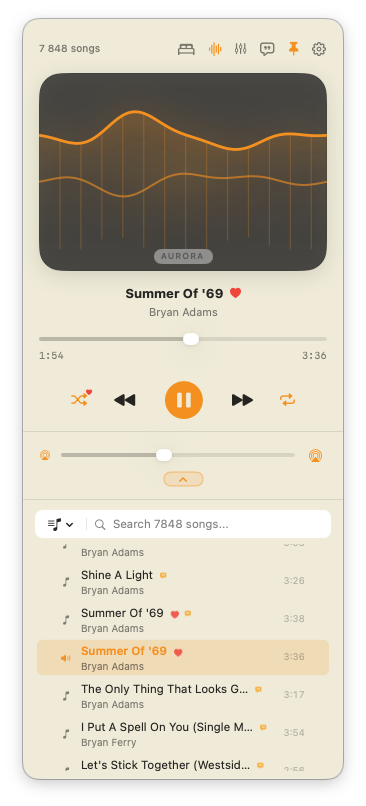
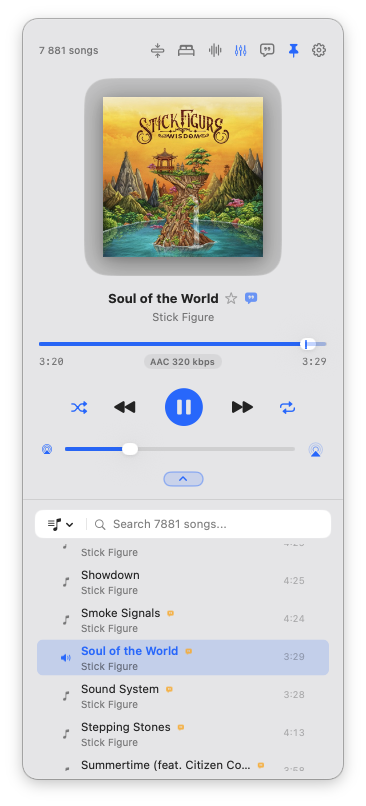
feat: replace screenshots with new 12 high-res captures

diff --git a/index.html b/index.html
@@ -719,172 +719,172 @@
         <button class="filter-btn" onclick="filterGallery('settings')">Settings</button>
       </div>
 
-      <div class="gallery-grid">
-        <!-- 1. Player Dark -->
-        <div class="gallery-item" data-category="player" onclick="openLightbox('screenshots/player-dark.png', 'Player — Dark Mode (Aurora Visualizer)')">
+            <div class="gallery-grid">
+        <!-- 1. Player Art + Library (Light) -->
+        <div class="gallery-item" data-category="library" onclick="openLightbox('screenshots/1-player-art-library-light.png', 'Album Art & Library Drawer (Light Mode)')">
           <div class="gallery-img-wrap">
-            <img src="screenshots/player-dark.png" alt="Echo player in Dark Mode with Aurora visualizer" class="gallery-img">
+            <img src="screenshots/1-player-art-library-light.png" alt="Echo player with album art and library drawer" class="gallery-img">
           </div>
           <div class="gallery-caption">
             <div class="gallery-item-title">
-              <span>Main Player (Dark)</span>
-              <span class="gallery-tag">Dark Mode</span>
-            </div>
-            <p class="gallery-item-desc">Album art, time scrub, playback controls, and real-time Aurora sound wave visualizer.</p>
-          </div>
-        </div>
-
-        <!-- 2. Player Light -->
-        <div class="gallery-item" data-category="player" onclick="openLightbox('screenshots/player-light.png', 'Player — Light Mode (Teal Accent)')">
-          <div class="gallery-img-wrap">
-            <img src="screenshots/player-light.png" alt="Echo player in Light Mode with Teal accent" class="gallery-img">
-          </div>
-          <div class="gallery-caption">
-            <div class="gallery-item-title">
-              <span>Main Player (Light)</span>
+              <span>Art & Library Drawer</span>
               <span class="gallery-tag">Light Mode</span>
             </div>
-            <p class="gallery-item-desc">Clean ivory finish with teal accents and native system typography.</p>
+            <p class="gallery-item-desc">Album artwork display with slide-out library drawer and instant search.</p>
           </div>
         </div>
 
-        <!-- 3. Library Dark -->
-        <div class="gallery-item" data-category="library" onclick="openLightbox('screenshots/library-dark.png', 'Library Drawer — Dark Mode')">
+        <!-- 2. Compact Light Blue -->
+        <div class="gallery-item" data-category="compact" onclick="openLightbox('screenshots/2-compact-light-blue.png', 'Compact Player (Electric Blue)')">
           <div class="gallery-img-wrap">
-            <img src="screenshots/library-dark.png" alt="Library drawer in Dark Mode" class="gallery-img">
+            <img src="screenshots/2-compact-light-blue.png" alt="Echo compact player in light mode with blue accent" class="gallery-img">
           </div>
           <div class="gallery-caption">
             <div class="gallery-item-title">
-              <span>Library Drawer (Dark)</span>
+              <span>Compact Player (Blue)</span>
+              <span class="gallery-tag">Compact</span>
+            </div>
+            <p class="gallery-item-desc">Ultra-compact 316 pt desktop footprint with minimalist playback controls.</p>
+          </div>
+        </div>
+
+        <!-- 3. Player Light Blue Oscilloscope -->
+        <div class="gallery-item" data-category="player" onclick="openLightbox('screenshots/3-player-light-oscilloscope.png', 'Player with Oscilloscope (Light Blue)')">
+          <div class="gallery-img-wrap">
+            <img src="screenshots/3-player-light-oscilloscope.png" alt="Echo player with blue oscilloscope visualizer" class="gallery-img">
+          </div>
+          <div class="gallery-caption">
+            <div class="gallery-item-title">
+              <span>Oscilloscope (Light Blue)</span>
+              <span class="gallery-tag">Visualizer</span>
+            </div>
+            <p class="gallery-item-desc">Live dual-channel oscilloscope waveform visualizer with glowing curves.</p>
+          </div>
+        </div>
+
+        <!-- 4. Player Warm Olive Oscilloscope -->
+        <div class="gallery-item" data-category="player" onclick="openLightbox('screenshots/4-player-warm-oscilloscope.png', 'Warm Ivory Player (Olive Green)')">
+          <div class="gallery-img-wrap">
+            <img src="screenshots/4-player-warm-oscilloscope.png" alt="Echo player in warm ivory theme with olive green accent" class="gallery-img">
+          </div>
+          <div class="gallery-caption">
+            <div class="gallery-item-title">
+              <span>Warm Ivory Player</span>
+              <span class="gallery-tag">Olive Theme</span>
+            </div>
+            <p class="gallery-item-desc">Warm ivory aesthetic with moss green accent and oscilloscope waveform.</p>
+          </div>
+        </div>
+
+        <!-- 5. Settings Warm Olive -->
+        <div class="gallery-item" data-category="settings" onclick="openLightbox('screenshots/5-settings-warm-olive.png', 'Preferences Drawer (Warm Theme)')">
+          <div class="gallery-img-wrap">
+            <img src="screenshots/5-settings-warm-olive.png" alt="Echo settings drawer in warm theme" class="gallery-img">
+          </div>
+          <div class="gallery-caption">
+            <div class="gallery-item-title">
+              <span>Preferences (Warm Theme)</span>
+              <span class="gallery-tag">Settings</span>
+            </div>
+            <p class="gallery-item-desc">12s crossfade slider, audio ducking, theme colors, and library sync.</p>
+          </div>
+        </div>
+
+        <!-- 6. Lyrics Warm Olive -->
+        <div class="gallery-item" data-category="eq-lyrics" onclick="openLightbox('screenshots/6-lyrics-warm-olive.png', 'Synced Karaoke Lyrics (Warm Theme)')">
+          <div class="gallery-img-wrap">
+            <img src="screenshots/6-lyrics-warm-olive.png" alt="Echo synced lyrics drawer in warm theme" class="gallery-img">
+          </div>
+          <div class="gallery-caption">
+            <div class="gallery-item-title">
+              <span>Synced Lyrics (Warm)</span>
+              <span class="gallery-tag">Karaoke</span>
+            </div>
+            <p class="gallery-item-desc">Real-time synchronized scrolling lyrics with active line highlighting.</p>
+          </div>
+        </div>
+
+        <!-- 7. Settings Dark Blue -->
+        <div class="gallery-item" data-category="settings" onclick="openLightbox('screenshots/7-settings-dark-blue.png', 'Preferences Drawer (Dark Mode)')">
+          <div class="gallery-img-wrap">
+            <img src="screenshots/7-settings-dark-blue.png" alt="Echo settings drawer in dark mode" class="gallery-img">
+          </div>
+          <div class="gallery-caption">
+            <div class="gallery-item-title">
+              <span>Preferences (Dark Mode)</span>
+              <span class="gallery-tag">Settings</span>
+            </div>
+            <p class="gallery-item-desc">Dark glass preferences with audio ducking and appearance controls.</p>
+          </div>
+        </div>
+
+        <!-- 8. Compact Warm Olive -->
+        <div class="gallery-item" data-category="compact" onclick="openLightbox('screenshots/8-compact-warm-olive.png', 'Compact Player (Warm Olive)')">
+          <div class="gallery-img-wrap">
+            <img src="screenshots/8-compact-warm-olive.png" alt="Echo compact player in warm theme with olive accent" class="gallery-img">
+          </div>
+          <div class="gallery-caption">
+            <div class="gallery-item-title">
+              <span>Compact Player (Warm)</span>
+              <span class="gallery-tag">Compact</span>
+            </div>
+            <p class="gallery-item-desc">Space-saving mini player in warm cream and olive styling.</p>
+          </div>
+        </div>
+
+        <!-- 9. Library Warm Olive -->
+        <div class="gallery-item" data-category="library" onclick="openLightbox('screenshots/9-library-warm-olive.png', 'Library Drawer (Warm Theme)')">
+          <div class="gallery-img-wrap">
+            <img src="screenshots/9-library-warm-olive.png" alt="Echo library drawer in warm theme" class="gallery-img">
+          </div>
+          <div class="gallery-caption">
+            <div class="gallery-item-title">
+              <span>Library Drawer (Warm)</span>
               <span class="gallery-tag">NSTableView</span>
             </div>
-            <p class="gallery-item-desc">Slide-out drawer with instant search, playlist filter, and loved track indicators.</p>
+            <p class="gallery-item-desc">High-speed virtual table scrolling with active song indicator.</p>
           </div>
         </div>
 
-        <!-- 4. Library Light -->
-        <div class="gallery-item" data-category="library" onclick="openLightbox('screenshots/library-light.png', 'Library Drawer — Light Mode (Orange Accent)')">
+        <!-- 10. Lyrics Dark Blue -->
+        <div class="gallery-item" data-category="eq-lyrics" onclick="openLightbox('screenshots/10-lyrics-dark-blue.png', 'Synced Karaoke Lyrics (Dark Mode)')">
           <div class="gallery-img-wrap">
-            <img src="screenshots/library-light.png" alt="Library drawer in Light Mode" class="gallery-img">
+            <img src="screenshots/10-lyrics-dark-blue.png" alt="Echo synced lyrics drawer in dark mode" class="gallery-img">
           </div>
           <div class="gallery-caption">
             <div class="gallery-item-title">
-              <span>Library Drawer (Light)</span>
-              <span class="gallery-tag">Custom Accent</span>
+              <span>Synced Lyrics (Dark)</span>
+              <span class="gallery-tag">Karaoke</span>
             </div>
-            <p class="gallery-item-desc">Instant centered auto-scrolling to the active playing song in &lt;1 ms.</p>
+            <p class="gallery-item-desc">Karaoke-style synchronized line tracking on deep dark canvas.</p>
           </div>
         </div>
 
-        <!-- 5. Equalizer Dark -->
-        <div class="gallery-item" data-category="eq-lyrics" onclick="openLightbox('screenshots/equalizer-dark.png', '10-Band Equalizer Popover')">
+        <!-- 11. Library Light Blue -->
+        <div class="gallery-item" data-category="library" onclick="openLightbox('screenshots/11-library-light-blue.png', 'Library Drawer (Light Blue)')">
           <div class="gallery-img-wrap">
-            <img src="screenshots/equalizer-dark.png" alt="Echo 10-band equalizer popover" class="gallery-img">
+            <img src="screenshots/11-library-light-blue.png" alt="Echo library drawer in light mode with blue accent" class="gallery-img">
           </div>
           <div class="gallery-caption">
             <div class="gallery-item-title">
-              <span>10-Band Equalizer</span>
-              <span class="gallery-tag">Audio DSP</span>
+              <span>Library Drawer (Blue)</span>
+              <span class="gallery-tag">Library</span>
             </div>
-            <p class="gallery-item-desc">Precision log curve, 11 presets, dynamic peak limiter, and hold-to-compare.</p>
+            <p class="gallery-item-desc">Search 7,800+ songs instantly with sub-millisecond filtering.</p>
           </div>
         </div>
 
-        <!-- 6. Lyrics Dark -->
-        <div class="gallery-item" data-category="eq-lyrics" onclick="openLightbox('screenshots/lyrics-dark.png', 'Synchronized Karaoke Lyrics')">
+        <!-- 12. Player Dark Oscilloscope -->
+        <div class="gallery-item" data-category="player" onclick="openLightbox('screenshots/12-player-dark-oscilloscope.png', 'Player with Oscilloscope (Dark Mode)')">
           <div class="gallery-img-wrap">
-            <img src="screenshots/lyrics-dark.png" alt="Synced lyrics drawer" class="gallery-img">
+            <img src="screenshots/12-player-dark-oscilloscope.png" alt="Echo player in dark mode with blue oscilloscope" class="gallery-img">
           </div>
           <div class="gallery-caption">
             <div class="gallery-item-title">
-              <span>Synchronized Lyrics</span>
-              <span class="gallery-tag">Karaoke Tracking</span>
+              <span>Oscilloscope (Dark Mode)</span>
+              <span class="gallery-tag">Dark Mode</span>
             </div>
-            <p class="gallery-item-desc">Live karaoke-style tracking from local .lrc files, embedded tags, or online APIs.</p>
-          </div>
-        </div>
-
-        <!-- 7. Settings Dark -->
-        <div class="gallery-item" data-category="settings" onclick="openLightbox('screenshots/settings-dark.png', 'Settings Drawer')">
-          <div class="gallery-img-wrap">
-            <img src="screenshots/settings-dark.png" alt="Settings drawer in Dark Mode" class="gallery-img">
-          </div>
-          <div class="gallery-caption">
-            <div class="gallery-item-title">
-              <span>Preferences Drawer</span>
-              <span class="gallery-tag">Customization</span>
-            </div>
-            <p class="gallery-item-desc">Crossfade duration, audio ducking, output routing, visualizers, and themes.</p>
-          </div>
-        </div>
-
-        <!-- 8. Compact Dark -->
-        <div class="gallery-item" data-category="compact" onclick="openLightbox('screenshots/compact-dark.png', 'Compact Player — Dark Mode (Amber Accent)')">
-          <div class="gallery-img-wrap">
-            <img src="screenshots/compact-dark.png" alt="Compact player in Dark Mode with Amber accent" class="gallery-img">
-          </div>
-          <div class="gallery-caption">
-            <div class="gallery-item-title">
-              <span>Compact Player (Amber)</span>
-              <span class="gallery-tag">270 pt Mini</span>
-            </div>
-            <p class="gallery-item-desc">Compact layout hiding artwork for minimal desktop footprint with cover thumbnail.</p>
-          </div>
-        </div>
-
-        <!-- 9. Compact Dark White -->
-        <div class="gallery-item" data-category="compact" onclick="openLightbox('screenshots/compact-dark-white.png', 'Compact Player — Dark Mode (White Accent)')">
-          <div class="gallery-img-wrap">
-            <img src="screenshots/compact-dark-white.png" alt="Compact player with white accent" class="gallery-img">
-          </div>
-          <div class="gallery-caption">
-            <div class="gallery-item-title">
-              <span>Compact Player (Monochrome)</span>
-              <span class="gallery-tag">Minimalist</span>
-            </div>
-            <p class="gallery-item-desc">High-contrast monochrome theme tailored for sleek dark wallpapers.</p>
-          </div>
-        </div>
-
-        <!-- 10. Compact Light -->
-        <div class="gallery-item" data-category="compact" onclick="openLightbox('screenshots/compact-light.png', 'Compact Player — Light Mode (Ink Blue Accent)')">
-          <div class="gallery-img-wrap">
-            <img src="screenshots/compact-light.png" alt="Compact player in Light Mode" class="gallery-img">
-          </div>
-          <div class="gallery-caption">
-            <div class="gallery-item-title">
-              <span>Compact Player (Light)</span>
-              <span class="gallery-tag">Light Theme</span>
-            </div>
-            <p class="gallery-item-desc">Streamlined 270 pt height with Ink Blue accents in daylight.</p>
-          </div>
-        </div>
-
-        <!-- 11. Compact Library Dark -->
-        <div class="gallery-item" data-category="compact" onclick="openLightbox('screenshots/compact-library-dark.png', 'Compact Player with Library Drawer — Dark')">
-          <div class="gallery-img-wrap">
-            <img src="screenshots/compact-library-dark.png" alt="Compact library drawer Dark" class="gallery-img">
-          </div>
-          <div class="gallery-caption">
-            <div class="gallery-item-title">
-              <span>Compact Library (Dark)</span>
-              <span class="gallery-tag">Mini Drawer</span>
-            </div>
-            <p class="gallery-item-desc">Access your entire song library even when operating in compact mini mode.</p>
-          </div>
-        </div>
-
-        <!-- 12. Compact Library Light -->
-        <div class="gallery-item" data-category="compact" onclick="openLightbox('screenshots/compact-library-light.png', 'Compact Player with Library Drawer — Light')">
-          <div class="gallery-img-wrap">
-            <img src="screenshots/compact-library-light.png" alt="Compact library drawer Light" class="gallery-img">
-          </div>
-          <div class="gallery-caption">
-            <div class="gallery-item-title">
-              <span>Compact Library (Light)</span>
-              <span class="gallery-tag">Mini Drawer</span>
-            </div>
-            <p class="gallery-item-desc">Browse playlists and search across thousands of files in compact view.</p>
+            <p class="gallery-item-desc">Dark interface with dual-waveform real-time oscilloscope display.</p>
           </div>
         </div>
       </div>
